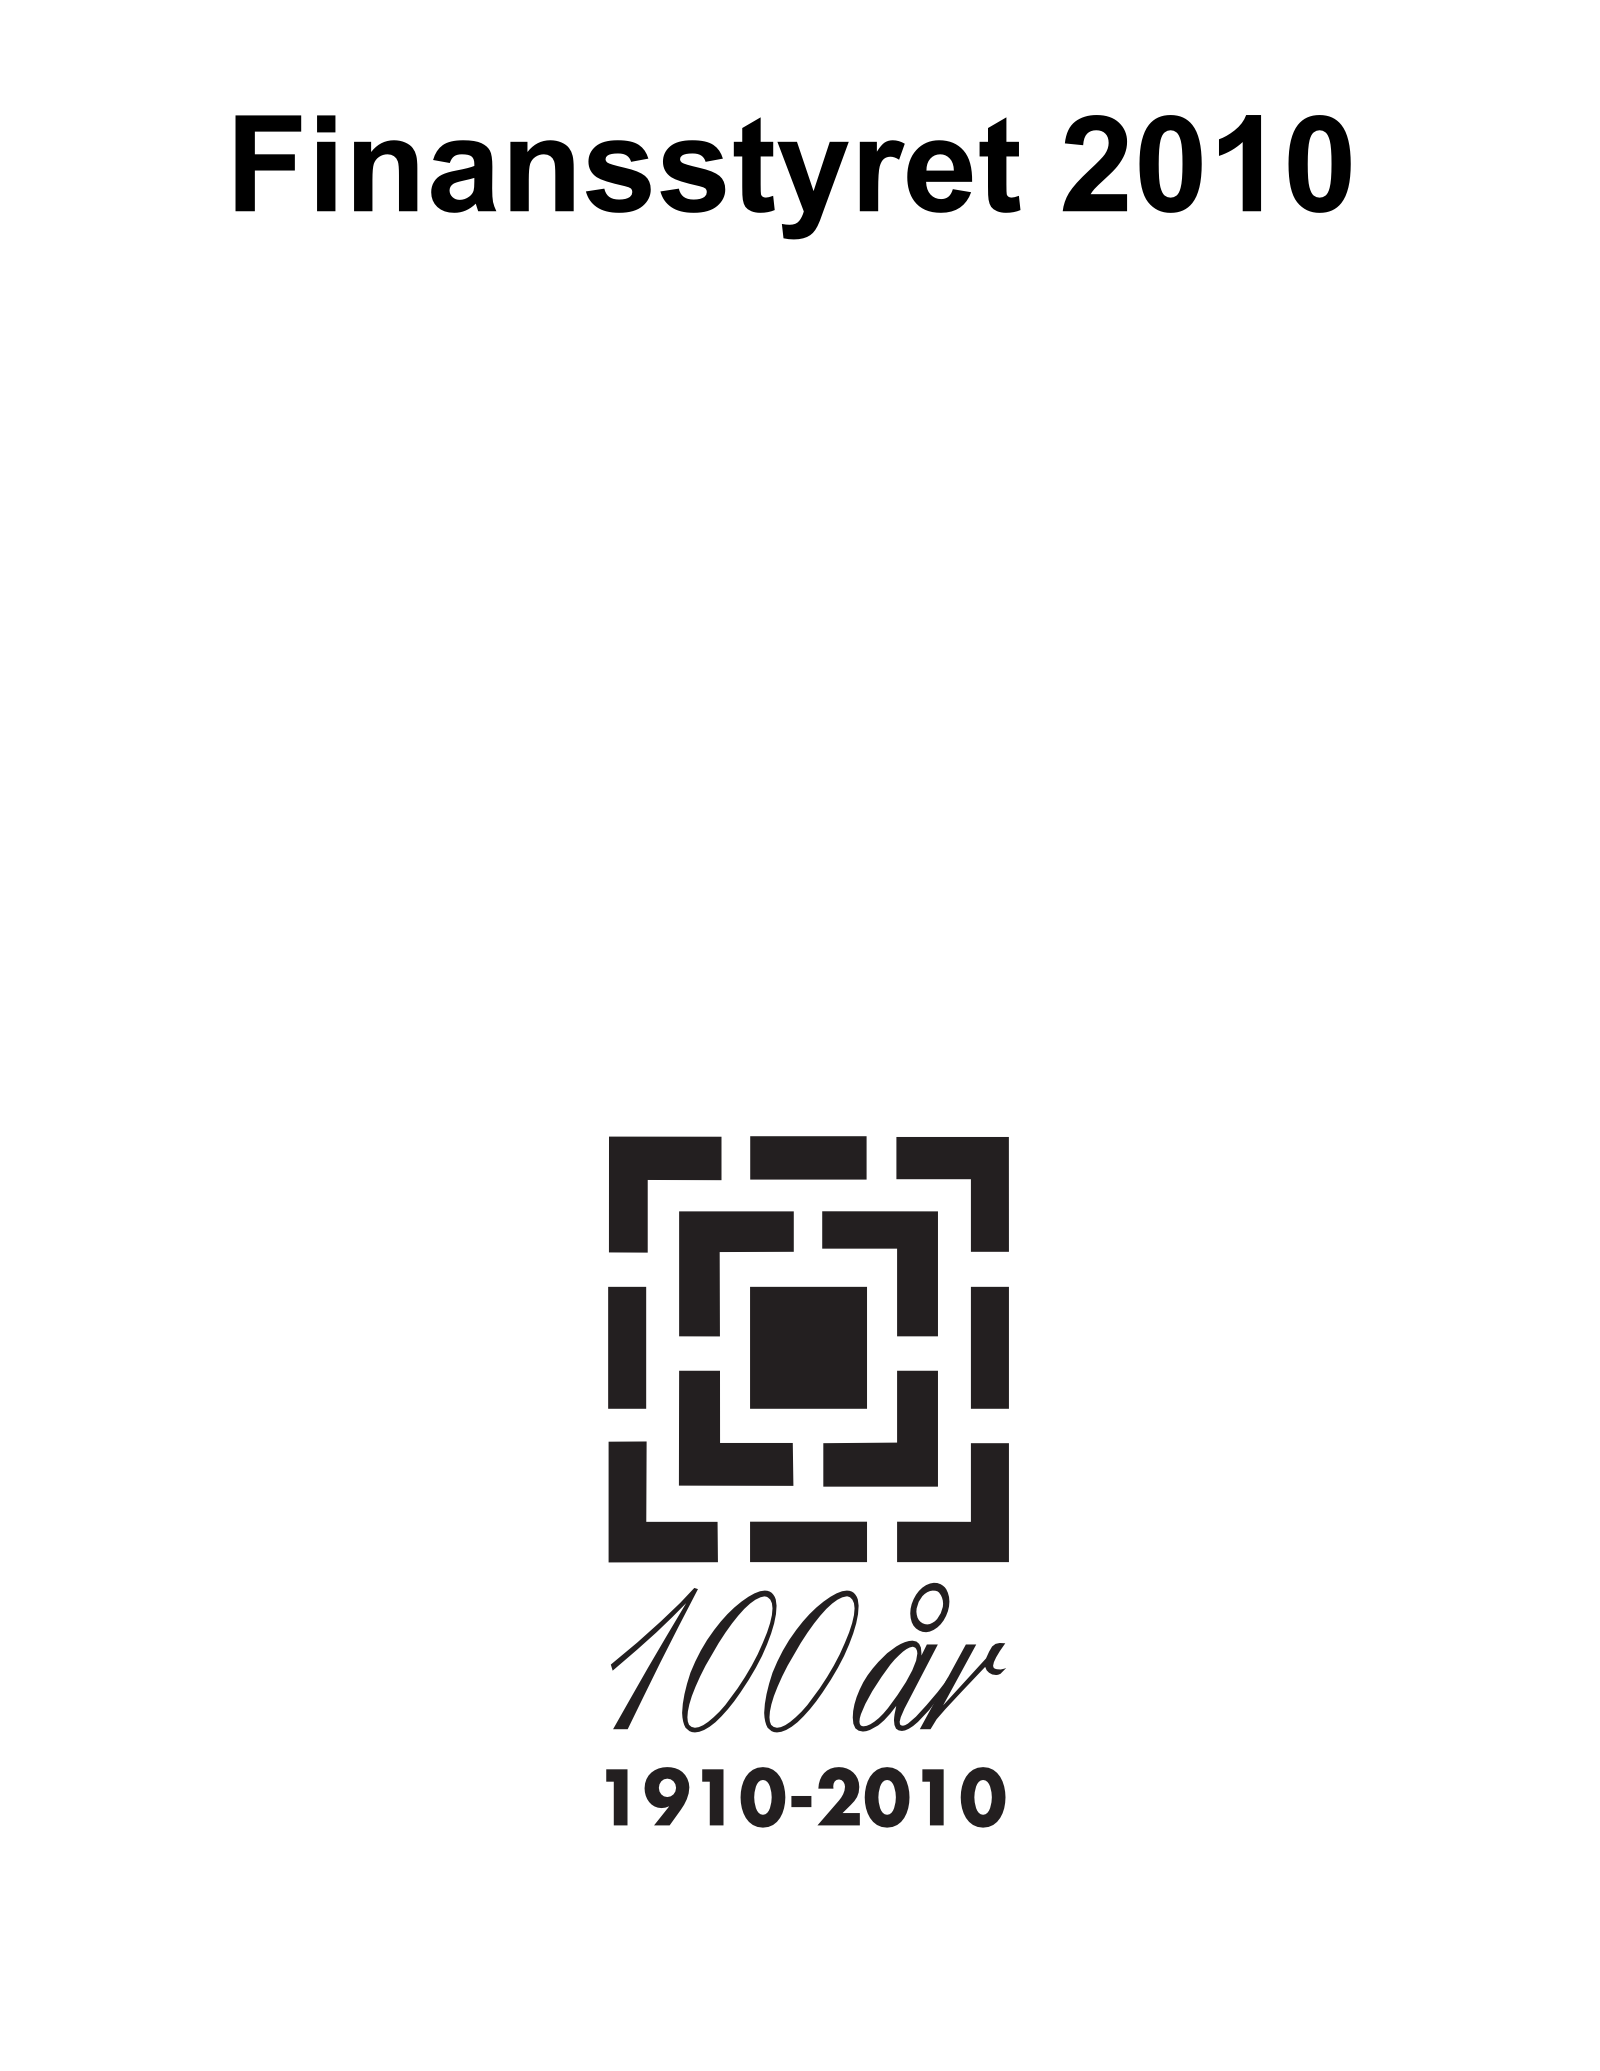
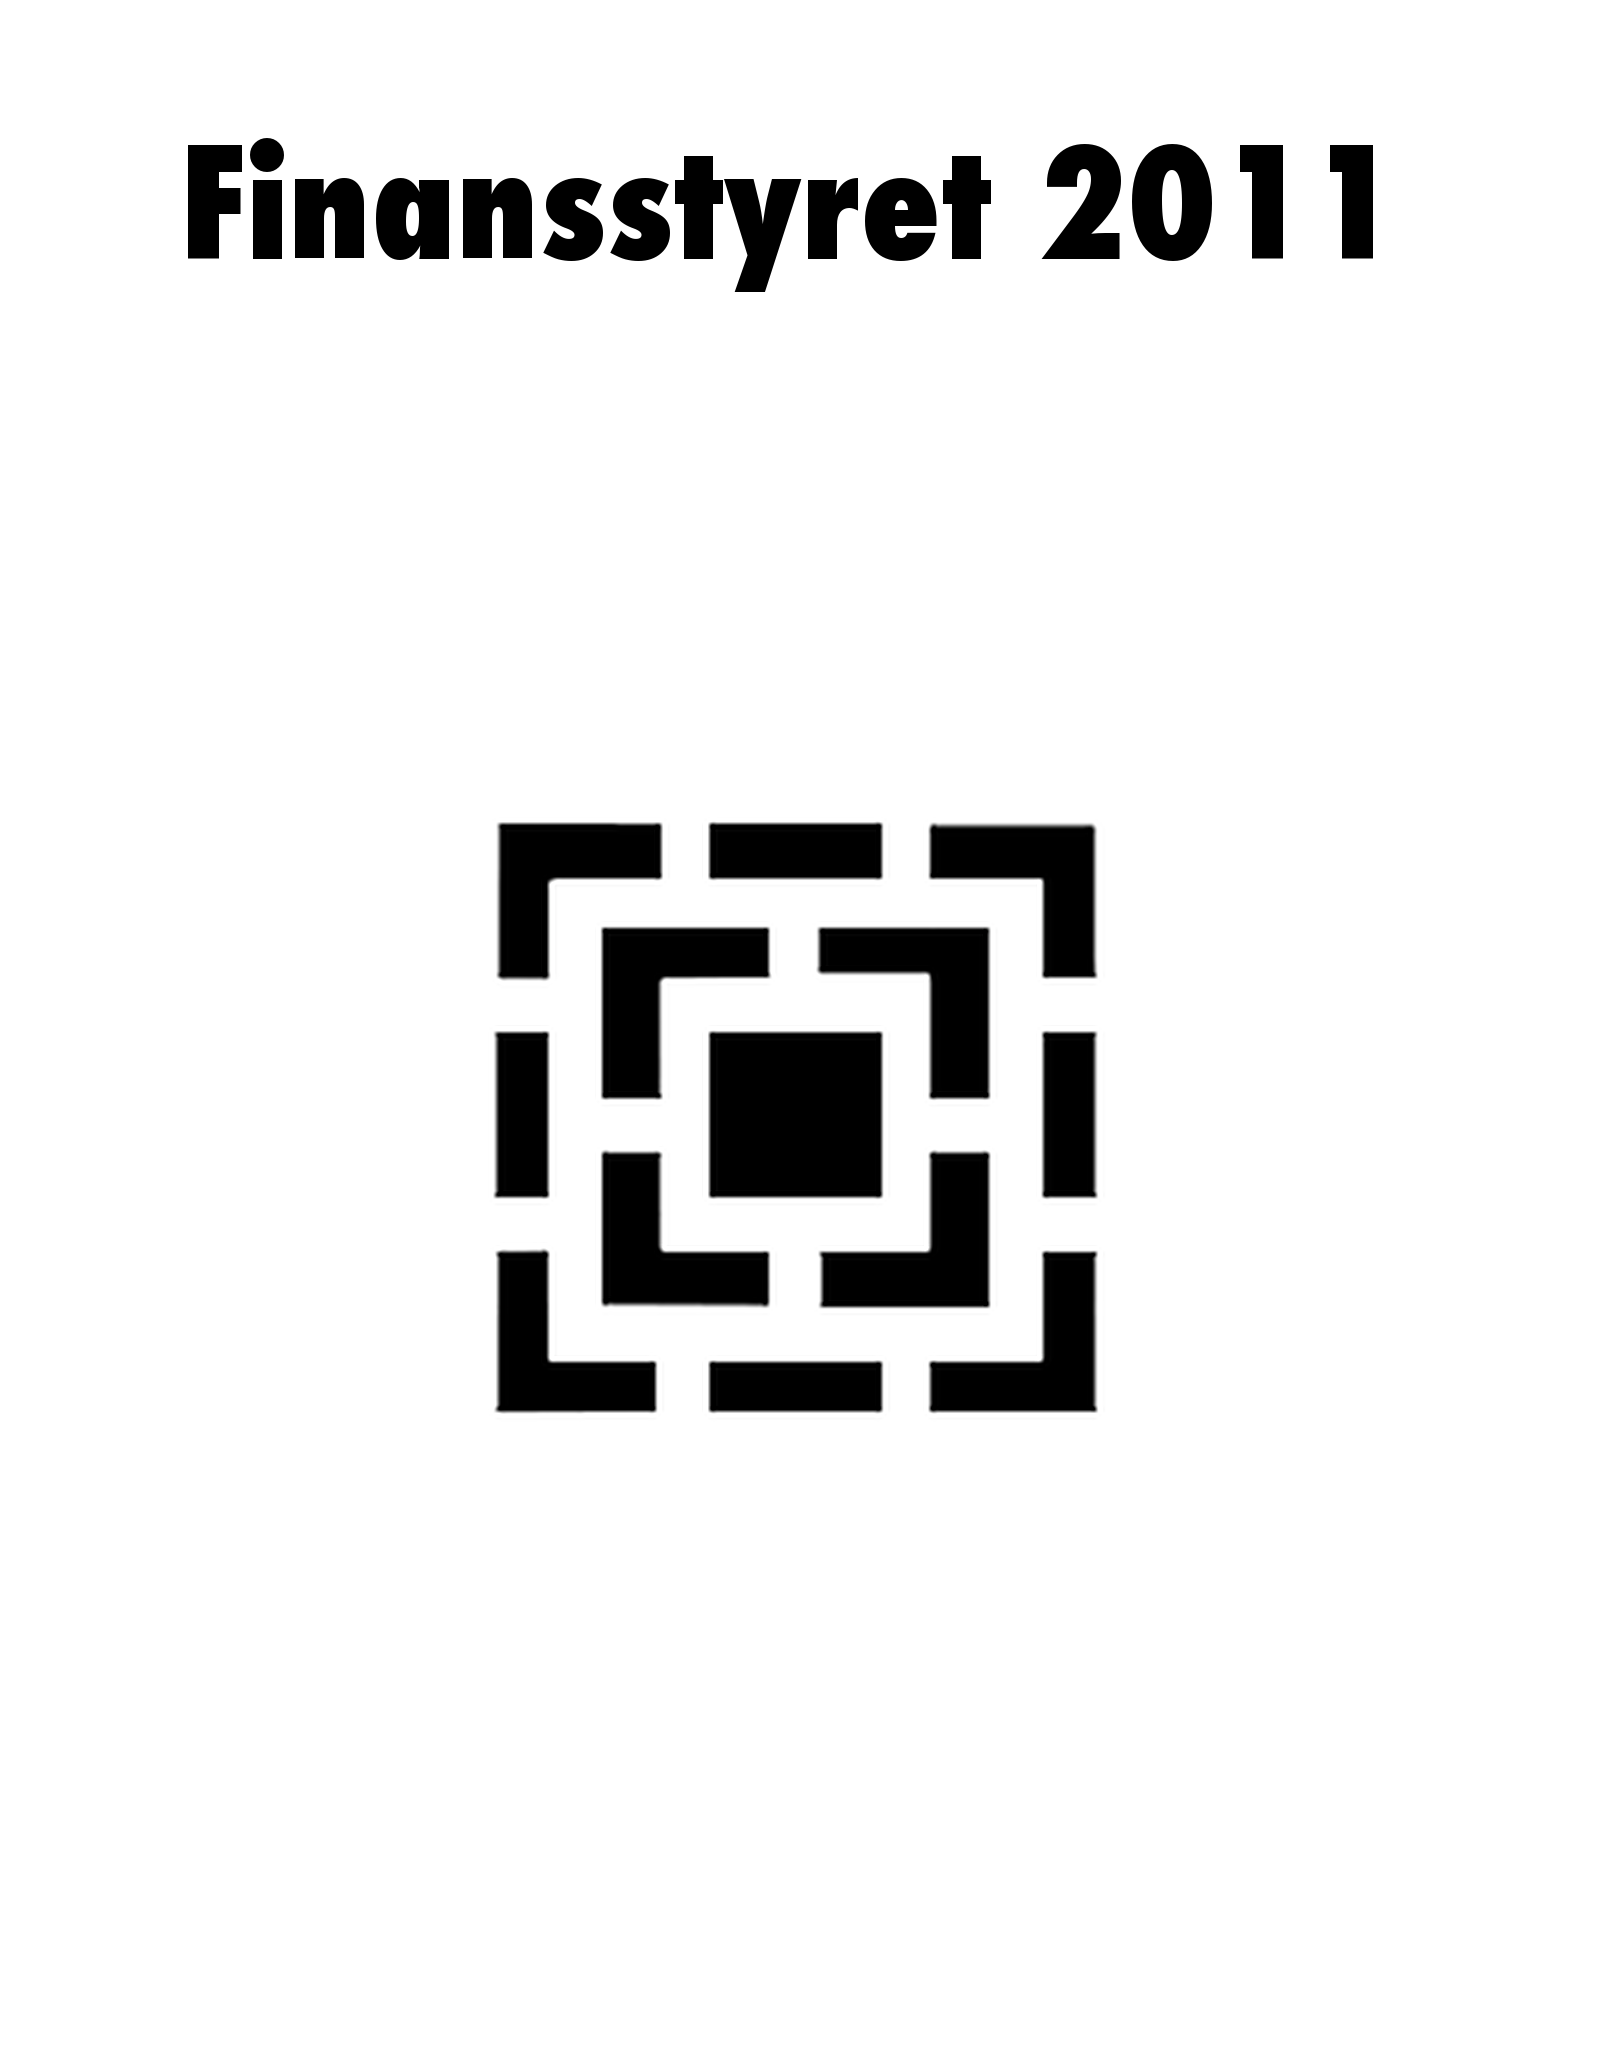
Laget ny forside og mellomark, samt fikset innholdsfortegnelse

Changed region(s): [[0.2812, 0.3708, 0.6875, 0.8962], [0.0938, 0.0309, 0.875, 0.1545]]

diff --git a/fsbok.tex b/fsbok.tex
@@ -9,25 +9,26 @@
 
 \usepackage{ucs}
 \usepackage[utf8x]{inputenc}
+%\usepackage{hyperref}
 
 %\usepackage[T1]{fontenc}
 
-%\usepackage[ pdftex, plainpages = false, pdfpagelabels, 
-%	pdfpagelayout = useoutlines,
-%	bookmarks,
-%	bookmarksopen = true,
-%	bookmarksnumbered = true,
-%	breaklinks = true,
-%	linktocpage,
-%	pagebackref,
-%	colorlinks = false,  % was true
-%	linkcolor = blue,
-%	urlcolor  = blue,
-%	citecolor = red,
-%	anchorcolor = green,
-%	hyperindex = true,
-%	hyperfigures
-%	]{hyperref} 
+\usepackage[ pdftex, plainpages = false, pdfpagelabels, 
+	pdfpagelayout = useoutlines,
+	bookmarks,
+	bookmarksopen = true,
+	bookmarksnumbered = true,
+	breaklinks = true,
+	linktocpage,
+	pagebackref,
+	colorlinks = false,  % was true
+	linkcolor = blue,
+	urlcolor  = blue,
+	citecolor = red,
+	anchorcolor = green,
+	hyperindex = true,
+	pdfborder ={0 0 0}
+	]{hyperref} 
 
 %\DeclareGraphicsExtensions{.png, .jpg, .jpeg, .pdf, .gif}
 %GIF doesn't work??
@@ -278,6 +279,8 @@
 \include{k35}
 
 \include{arealdisponering}
+
+\include{instrukser/presse}
 
 %\part{Gjenginstrukser}
 
